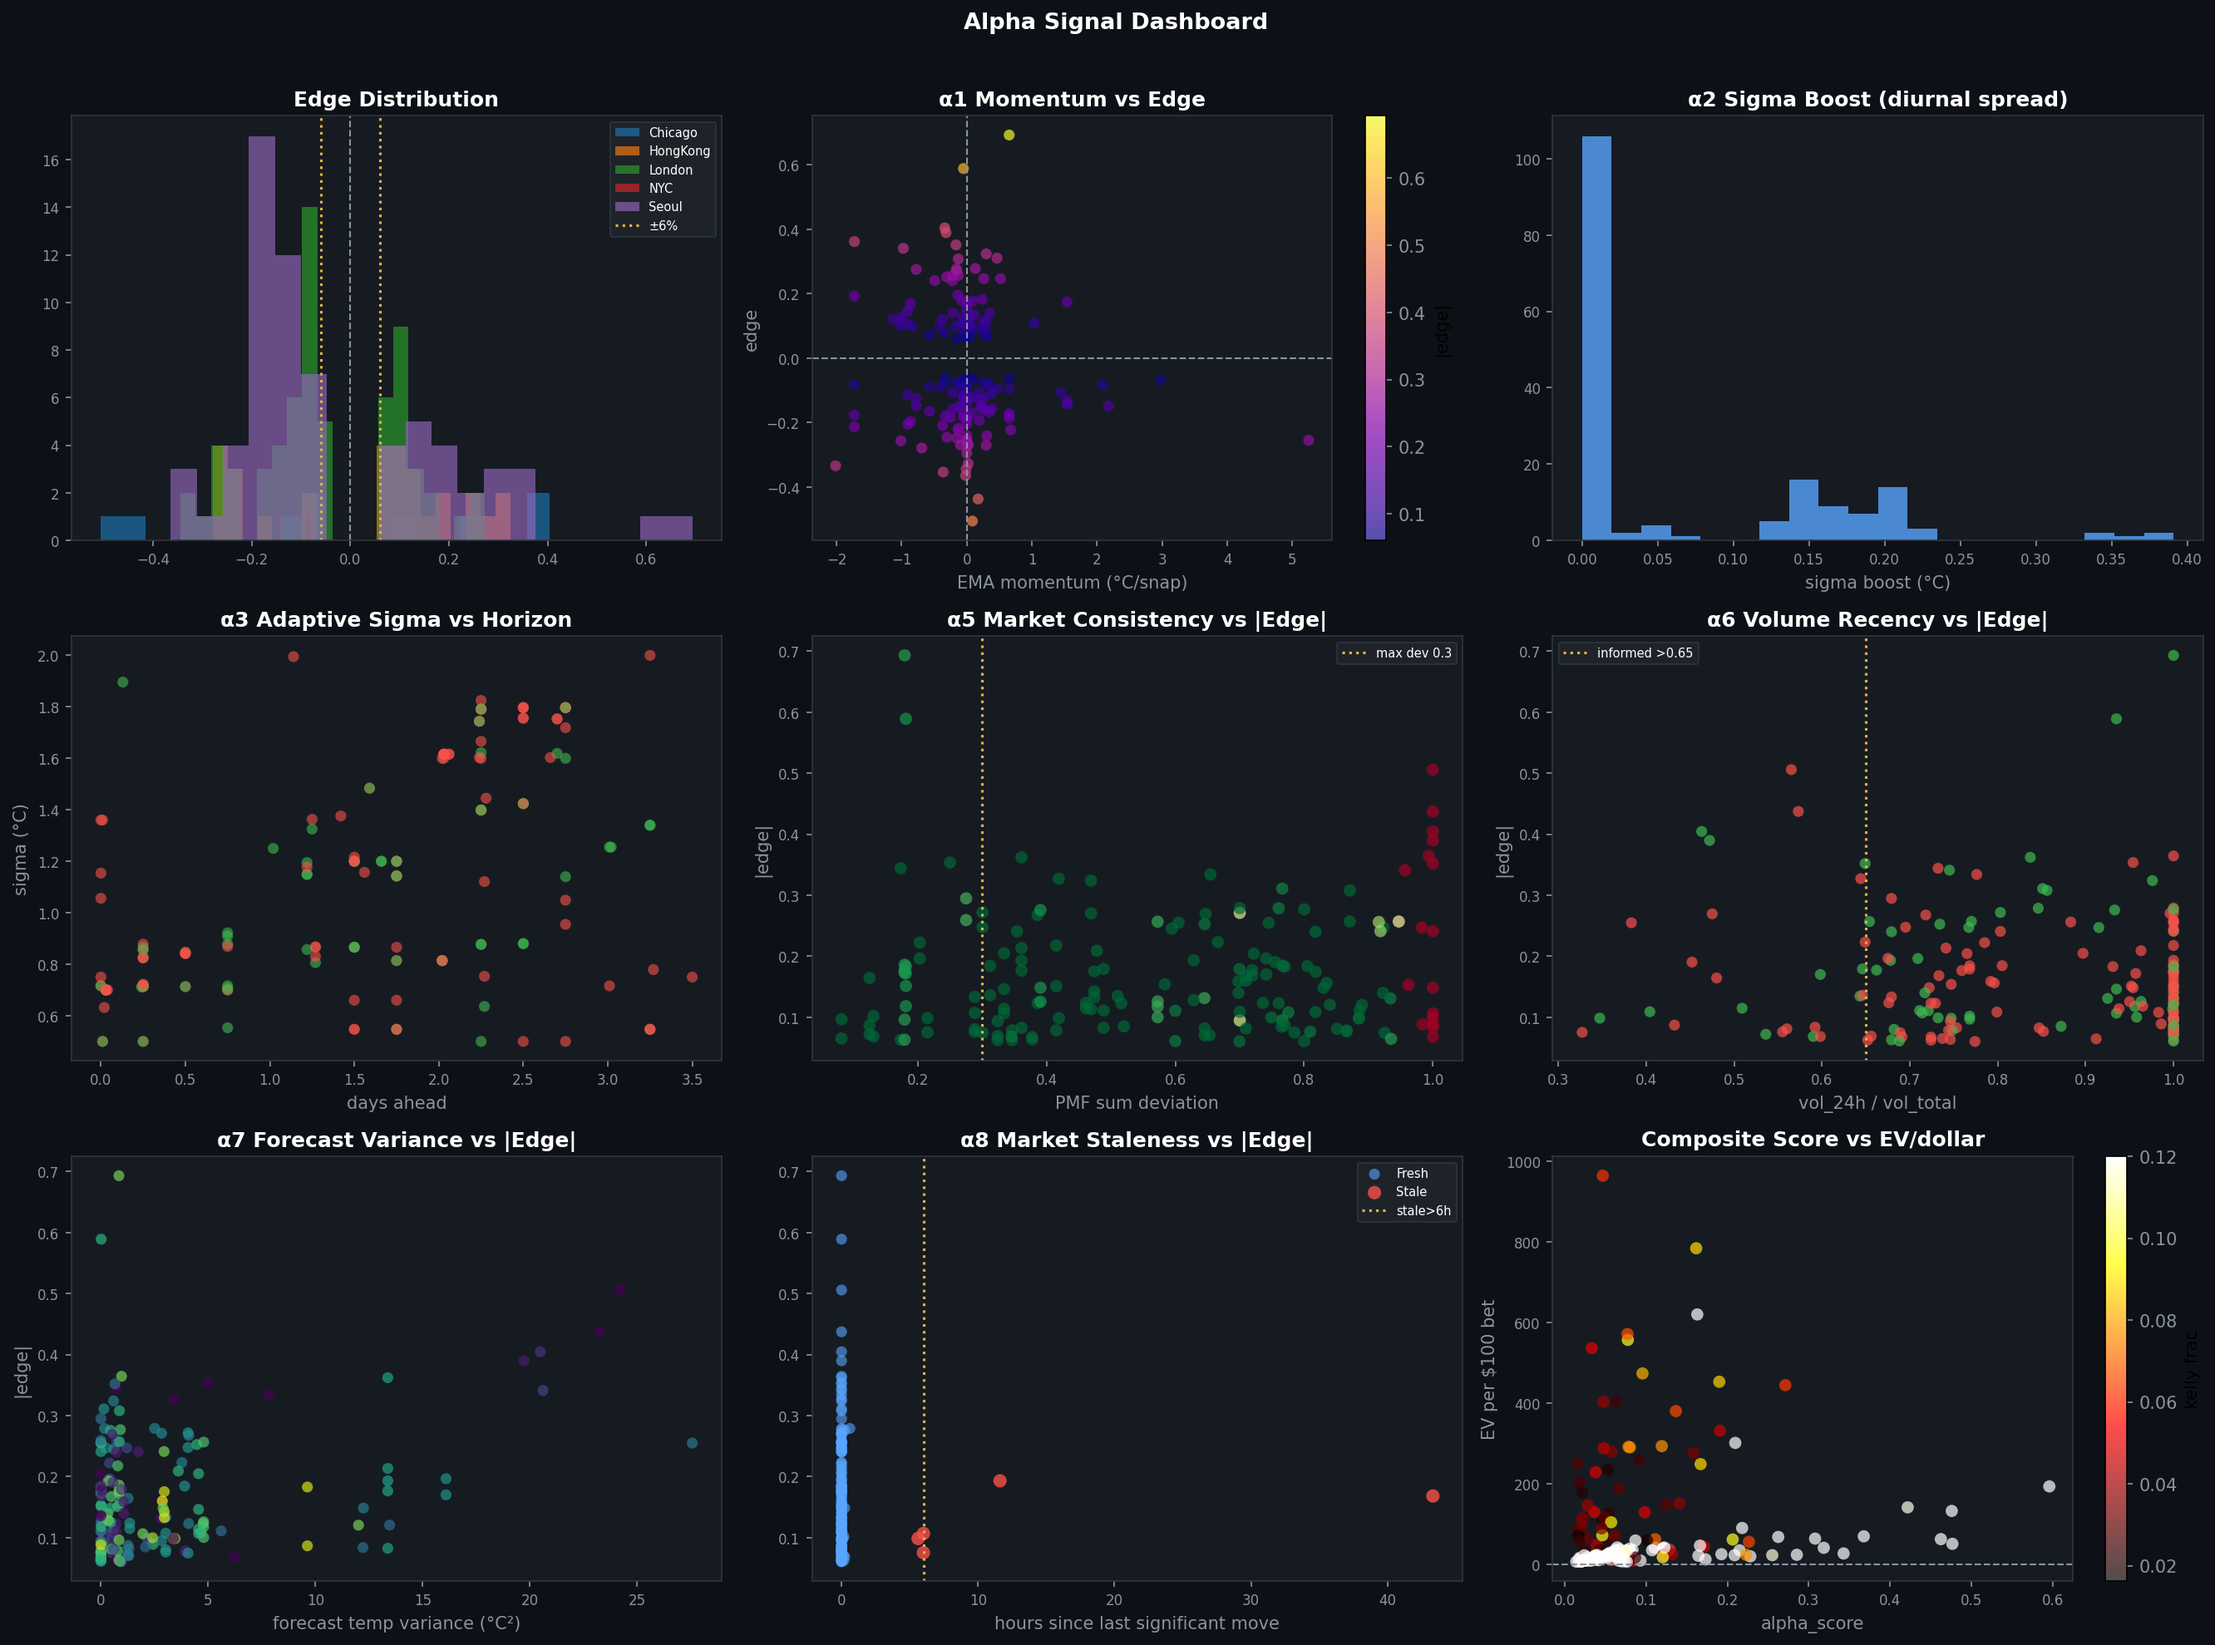
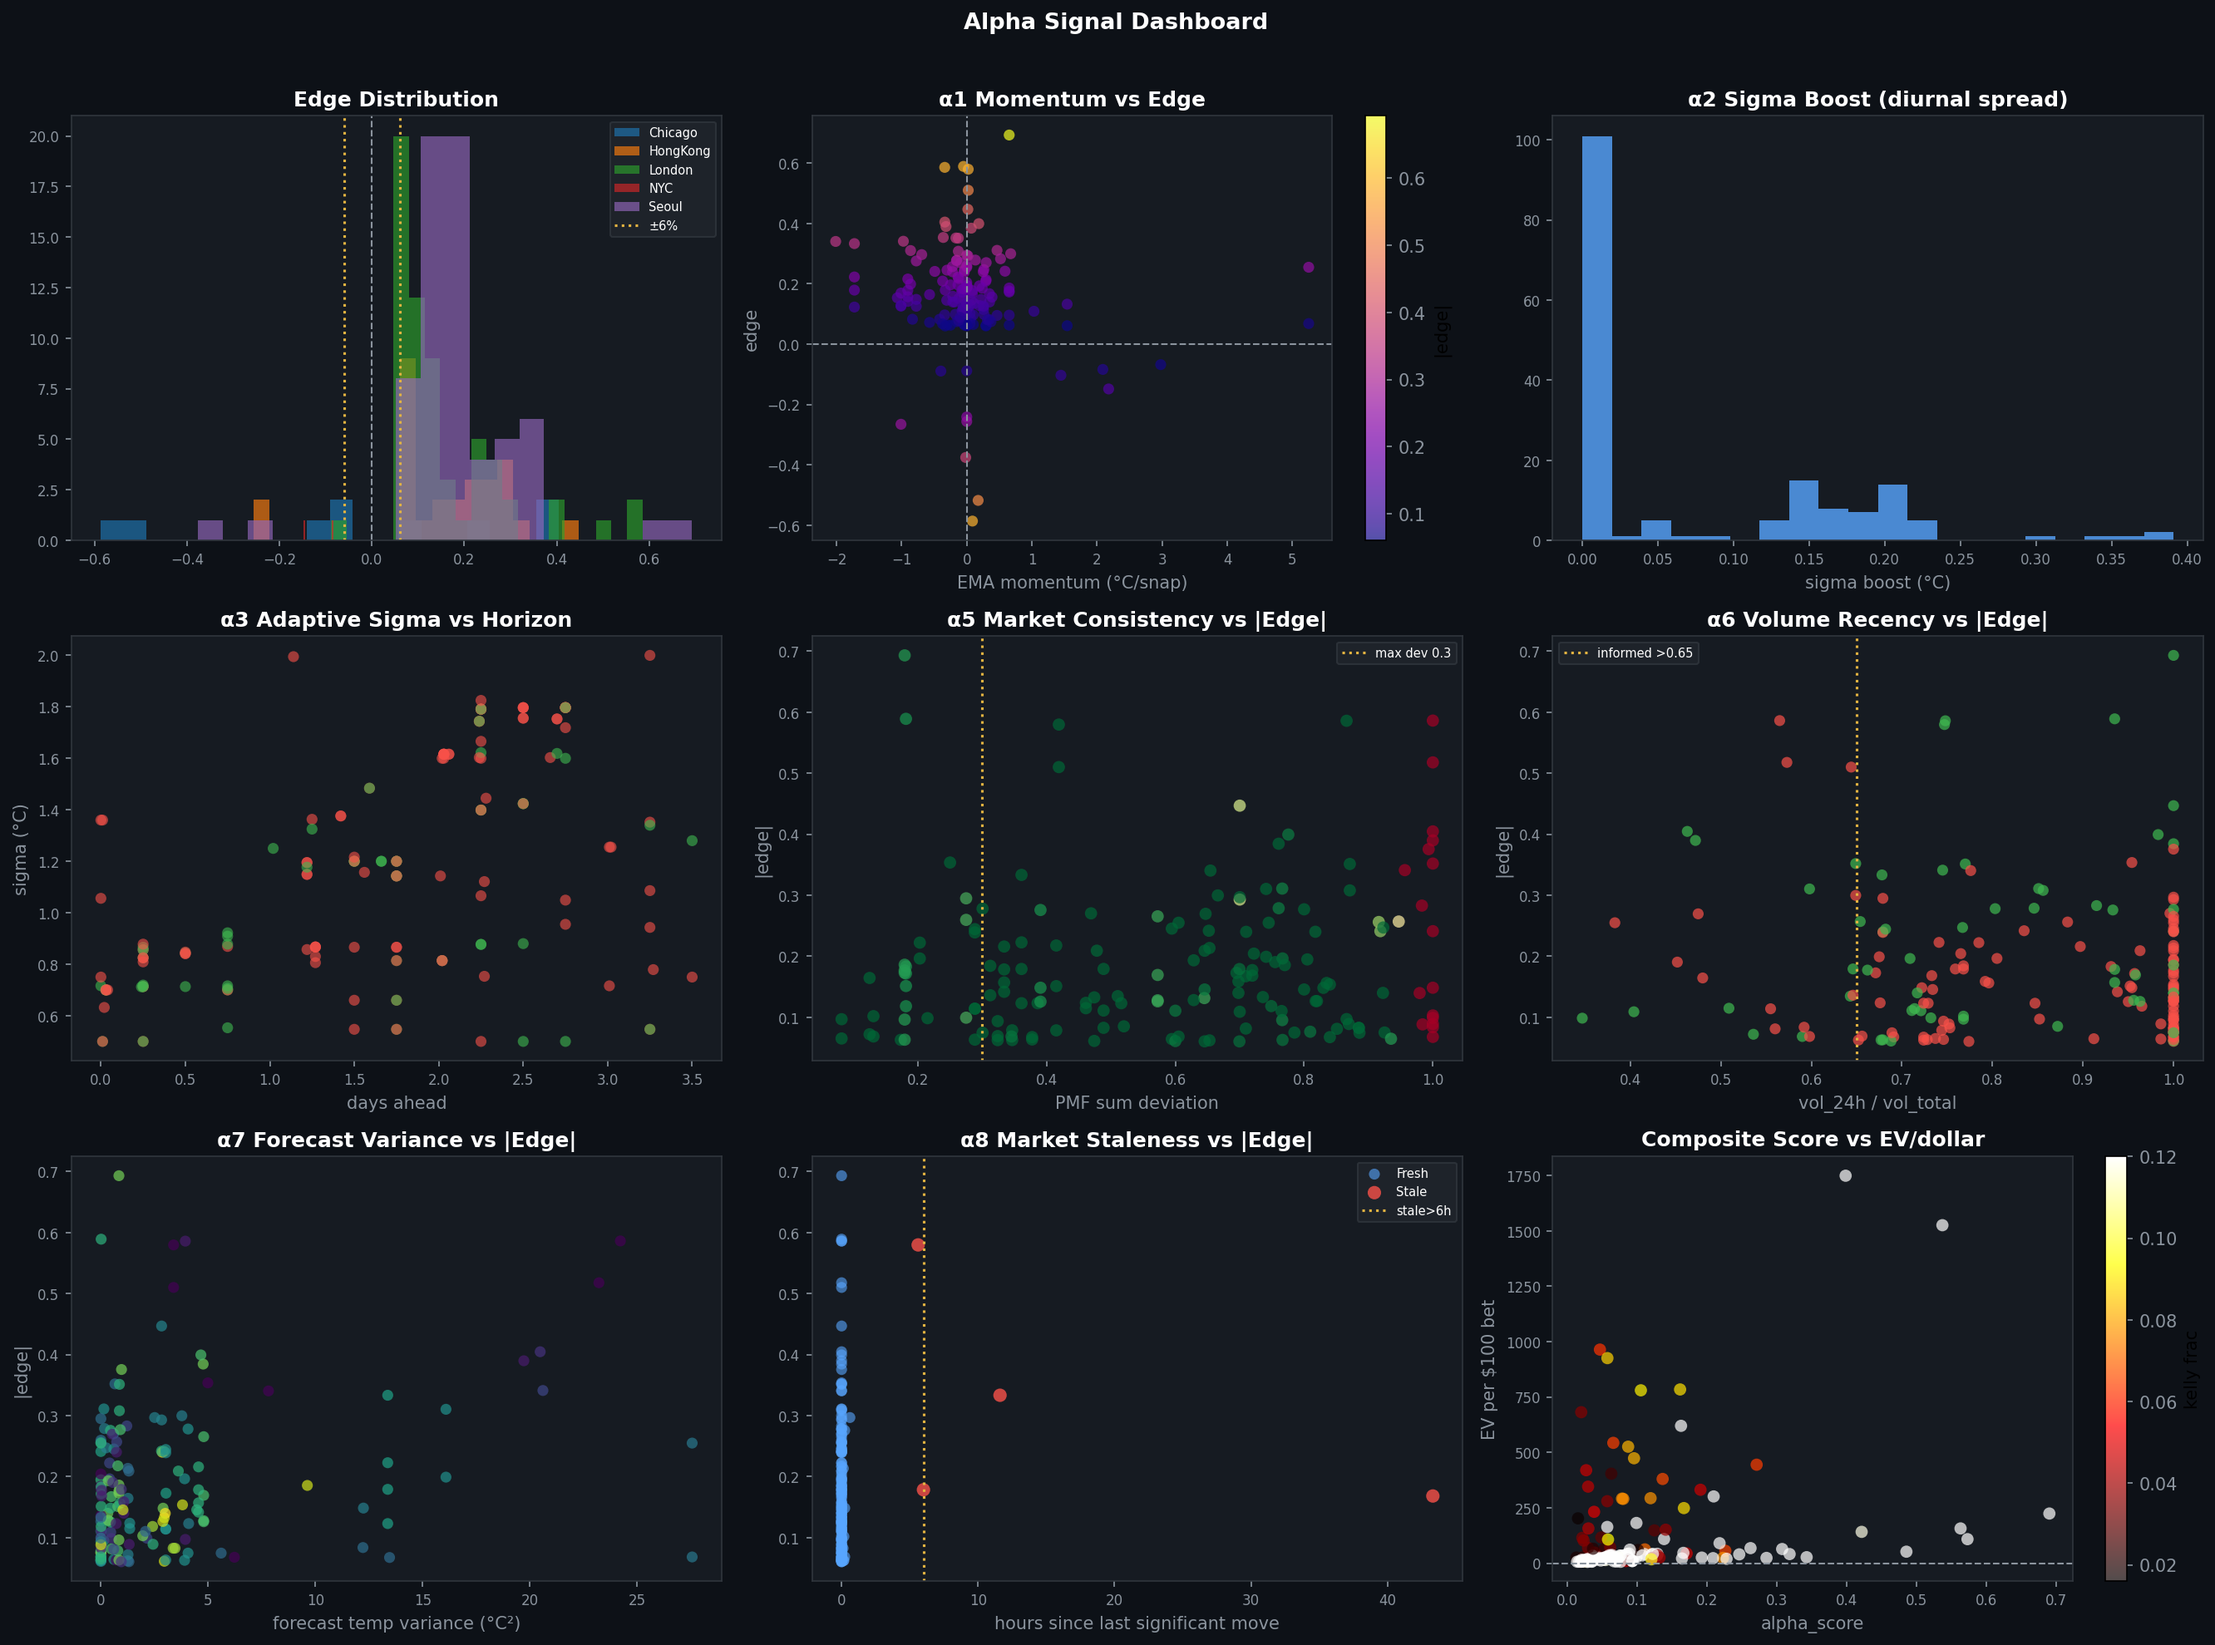
Implement Max-Probability Portfolio Hybrid and Lock-In Filter in analyzer

diff --git a/src/polymarket_weather/polymarket_weather_analysis.py b/src/polymarket_weather/polymarket_weather_analysis.py
@@ -945,9 +945,11 @@ def analyse_city(data_dir: Path, city: str,
         print(f"  Ensemble not available — falling back to NWP_PARAMS table")
 
     results: list[Opportunity] = []
+    cheapest_entries = {}
 
-    # Group by (target_date, fetch_bucket) to process each snapshot window
+    # Group by (target_date, fetch_bucket) to process each snapshot window chronologically
     snap_df["end_date_norm"] = snap_df["end_date_iso"].dt.normalize()
+    snap_df = snap_df.sort_values("fetched_at_utc")
     groups = snap_df.groupby(["end_date_norm", "fetch_bucket"], sort=False)
     print(f"  {city}: {len(groups)} (date × snapshot) groups, "
           f"{snap_df['condition_id'].nunique()} unique markets", flush=True)
@@ -977,15 +979,31 @@ def analyse_city(data_dir: Path, city: str,
         fc_row  = fc_candidates.sort_values("fetched_at_utc").iloc[-1]
         mu_det  = float(fc_row["temp_max_c"])   # deterministic forecast
 
-        # ── Sigma: ensemble spread if available, else NWP lookup ──────────
-        # The ensemble std is a direct measure of model spread (actual
-        # disagreement among 40 members), far superior to a fixed lookup.
         s_boost = spread_sigma_boost(daily_df, target_date_ts, fetch_time)
-        _, nu   = _get_nwp_params(days_fwd)
+        # Default initialization for fallbacks (NWP table)
+        sigma_base, nu_base = _get_nwp_params(days_fwd)
+        mu_ml = mu_ens = mu_det
+        sigma_ml = sigma_ens = sigma_base + s_boost
+        nu_ml = nu_ens = nu_base
+        sigma_source = "nwp_table"
 
         ens_params = _get_ensemble_params(ens_df, target_date_ts, fetch_time)
         if ens_params is not None:
             raw_mu = ens_params["ens_mean"]
+            raw_sigma = max(0.5, ens_params["ens_std"]) + s_boost
+            raw_nu = _fit_nu_from_ensemble(ens_params)
+            
+            # Setup Ensemble parameters
+            mu_ens = raw_mu
+            sigma_ens = raw_sigma
+            nu_ens = raw_nu
+            
+            # Default ML parameters to match Ensemble if ML fails to load
+            mu_ml = raw_mu
+            sigma_ml = raw_sigma
+            nu_ml = raw_nu
+            sigma_source = "ensemble"
+            
             ml_loaded = False
             if use_ml:
                 import joblib, json, scipy.stats
@@ -1000,24 +1018,20 @@ def analyse_city(data_dir: Path, city: str,
                     day_of_year = target_date_ts.dayofyear
                     calibrated_mu = model.predict([[raw_mu, day_of_year]])[0]
                     
-                    mu           = calibrated_mu
-                    sigma        = sigma_cal
-                    nu           = 100.0  # Force Gaussian/scipy norm behavior
-                    sigma_source = "ml_calibrated"
+                    mu_ml = calibrated_mu
+                    sigma_ml = raw_sigma  # Keep dynamic flow-dependent uncertainty for ML
+                    nu_ml = raw_nu
+                    sigma_source = "ml_portfolio"
                     ml_loaded = True
                 except Exception as e:
                     pass
-
-            if not ml_loaded:
-                mu           = raw_mu
-                sigma        = max(0.5, ens_params["ens_std"]) + s_boost
-                nu           = _fit_nu_from_ensemble(ens_params)   # data-driven tail shape
-                sigma_source = "ensemble"
         else:
-            sigma_base, _ = _get_nwp_params(days_fwd)
-            mu           = mu_det
-            sigma        = sigma_base + s_boost
             sigma_source = "nwp_table"
+
+        # Keep default mu, sigma, nu for PMF reconstruction and backward compatibility
+        mu = mu_ml
+        sigma = sigma_ml
+        nu = nu_ml
 
         # ── Alpha signals ──────────────────────────────────────────────────
         mom    = compute_momentum(daily_df, target_date_ts, fetch_time)   # α1
@@ -1064,28 +1078,51 @@ def analyse_city(data_dir: Path, city: str,
         #   f_prob_raw = our model's P(temp = X)  from Student-t distribution
         #   m_prob_raw = b.yes_prob               the actual Polymarket price
         # Do NOT use normalized PMF values for edge/Kelly — those are for the
-        # consistency check (α5) only. The real tradeable edge is raw vs raw.
         for b in exact_bins:
             if b.liquidity < min_liq:
                 continue
 
-            f_prob_raw = _bin_prob(b.temp_c, mu, sigma, nu, b.half_width)
-            m_prob_raw = b.yes_prob   # actual market price you pay
+            # Compute raw probabilities from both models
+            f_prob_ml = _bin_prob(b.temp_c, mu_ml, sigma_ml, nu_ml, b.half_width)
+            f_prob_ens = _bin_prob(b.temp_c, mu_ens, sigma_ens, nu_ens, b.half_width)
 
-            if f_prob_raw < 1e-6:
-                continue
+            m_prob_raw = b.yes_prob   # actual market price you pay
 
             # Skip near-settled markets (price approaching 0 or 1)
             if m_prob_raw < MIN_MARKET_PRICE or m_prob_raw > (1.0 - MIN_MARKET_PRICE):
                 continue
 
-            edge = f_prob_raw - m_prob_raw
-            if abs(edge) < min_edge:
+            # Filter: only bet if the ML model sees a tradeable edge
+            edge_ml = f_prob_ml - m_prob_raw
+            if abs(edge_ml) < min_edge:
                 continue
 
-            bet_side   = "Yes" if edge > 0 else "No"
-            our_prob   = f_prob_raw if edge > 0 else (1.0 - f_prob_raw)
-            their_prob = m_prob_raw if edge > 0 else (1.0 - m_prob_raw)
+            # Bet side is dictated by the direction of the ML model
+            bet_side = "Yes" if edge_ml > 0 else "No"
+            
+            # Sizing: use the maximum of the two probabilities for the bet side (ML vs Ensemble)
+            our_prob_ml = f_prob_ml if bet_side == "Yes" else (1.0 - f_prob_ml)
+            our_prob_ens = f_prob_ens if bet_side == "Yes" else (1.0 - f_prob_ens)
+            our_prob = max(our_prob_ml, our_prob_ens)
+            
+            # Reconstruct f_prob_raw (our effective probability) and edge for Kelly sizing
+            f_prob_raw = our_prob if bet_side == "Yes" else (1.0 - our_prob)
+            their_prob = m_prob_raw if bet_side == "Yes" else (1.0 - m_prob_raw)
+            edge = our_prob - their_prob
+
+            # Lock-In: preserve the early cheap/high-leverage bets in the backtester
+            prev_price = cheapest_entries.get(b.condition_id)
+            if prev_price is not None:
+                # If we entered cheap (<30% price) and the price went up by >10% (more than 10 cents), skip
+                if prev_price < 0.30 and their_prob > (prev_price + 0.10):
+                    continue
+                # General slip: if the price moved against us by >15% (15 cents), skip
+                if their_prob > (prev_price + 0.15):
+                    continue
+            
+            # Update cheapest entry price
+            if prev_price is None or their_prob < prev_price:
+                cheapest_entries[b.condition_id] = their_prob
 
             # PMF-normalized values kept for reporting/consistency signal
             m_prob = market_pmf.get(b.temp_c, m_prob_raw)
